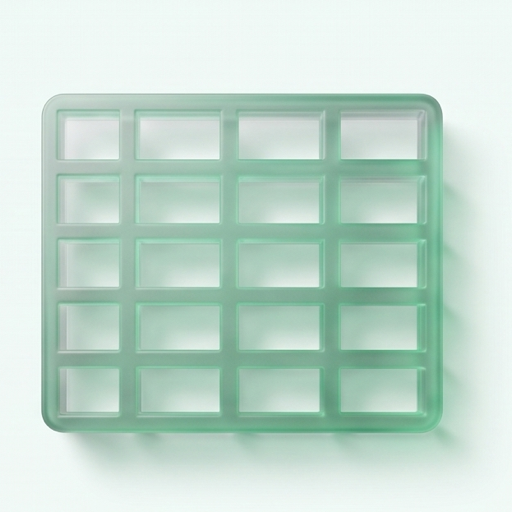
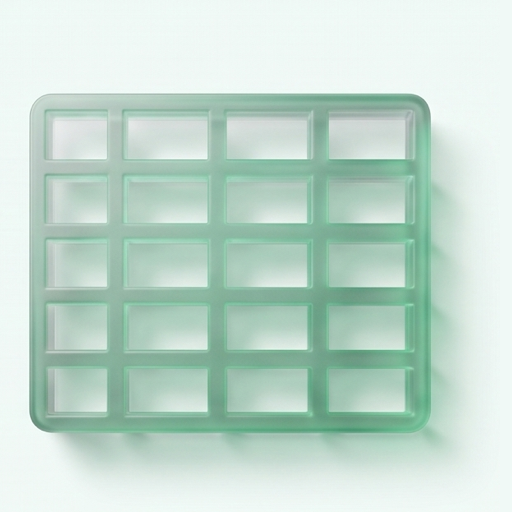
Dlazdice temat: velka ikona vpravo + vycentrovany Excel
Dle Karla:
- dlazdice prekopana na horizontalni layout: text (nazev + pocet) vlevo,
  VELKA ikona (46 % sirky, ~144px na desktopu) vpravo, jasne viditelna
  (drive jen mala ikonka vpravo nahore)
- ToolGlassIcon: velikost/ram ted pres prop className (vychozi = mala cipova)
- excel.png / excel-light.png: obsah gridu vodorovne vycentrovan
  (svetla varianta byla ~12px vpravo, srovnano)

Overeno v obou rezimech: ikony 143px, Excel vycentrovan, mobil bez preteceni.

diff --git a/src/components/BankBrowser.tsx b/src/components/BankBrowser.tsx
@@ -261,23 +261,29 @@ export function BankBrowser({ items, lang }: { items: BankItem[]; lang: Lang }) 
                 <button
                   type="button"
                   onClick={() => setTool(t.name)}
-                  className="glass group flex w-full flex-col items-start gap-3 rounded-2xl p-5 text-left transition hover:-translate-y-0.5 hover:shadow-lg hover:shadow-accent-600/15"
+                  className="glass group flex w-full items-center gap-3 overflow-hidden rounded-2xl p-5 text-left transition hover:-translate-y-0.5 hover:shadow-lg hover:shadow-accent-600/15"
                 >
-                  {/* Ikona vpravo nahoře (dřív vlevo). */}
-                  <span className="flex w-full justify-end">
+                  {/* Text vlevo */}
+                  <span className="flex min-w-0 flex-1 flex-col gap-1">
+                    <span className="font-display text-lg font-semibold tracking-tight text-zinc-900 dark:text-white">
+                      {toolLabel(t.name, lang)}
+                    </span>
+                    <span className="text-sm text-zinc-500 dark:text-zinc-400">
+                      {countMaterials(t.count, lang)}
+                    </span>
+                  </span>
+                  {/* Velká ikona vyplní pravou část dlaždice */}
+                  <span className="aspect-square w-[46%] max-w-[9.5rem] shrink-0">
                     {hasToolGlassIcon(t.name) ? (
-                      <ToolGlassIcon tool={t.name} />
+                      <ToolGlassIcon
+                        tool={t.name}
+                        className="h-full w-full rounded-2xl object-cover ring-1"
+                      />
                     ) : (
-                      <span className="flex h-14 w-14 items-center justify-center rounded-xl bg-accent-500/15 text-accent-600 transition group-hover:bg-accent-600 group-hover:text-white dark:text-accent-300">
-                        <Icon className="h-6 w-6" />
+                      <span className="flex h-full w-full items-center justify-center rounded-2xl bg-accent-500/15 text-accent-600 transition group-hover:bg-accent-600 group-hover:text-white dark:text-accent-300">
+                        <Icon className="h-10 w-10" />
                       </span>
                     )}
-                  </span>
-                  <span className="font-display text-lg font-semibold tracking-tight text-zinc-900 dark:text-white">
-                    {toolLabel(t.name, lang)}
-                  </span>
-                  <span className="text-sm text-zinc-500 dark:text-zinc-400">
-                    {countMaterials(t.count, lang)}
                   </span>
                 </button>
               </li>

diff --git a/src/components/ToolGlassIcon.tsx b/src/components/ToolGlassIcon.tsx
@@ -7,28 +7,34 @@ import { TOOL_ICON, TOOL_ICON_LIGHT } from "@/lib/bankLabels";
  * 3D skleněná ikona tématu s variantou pro světlý/tmavý režim.
  * Přepínání řeší čistě CSS (`dark:`), takže funguje okamžitě při změně
  * motivu bez JS. Když téma ikonu nemá, nevykreslí nic (volající řeší fallback).
+ * `className` řídí velikost/rám (výchozí = malá čipová ikona).
  */
-export function ToolGlassIcon({ tool }: { tool: string }) {
+export function ToolGlassIcon({
+  tool,
+  className = "h-14 w-14 rounded-xl object-cover ring-1",
+}: {
+  tool: string;
+  className?: string;
+}) {
   const dark = TOOL_ICON[tool];
   const light = TOOL_ICON_LIGHT[tool];
   if (!dark) return null;
 
-  const base =
-    "h-14 w-14 rounded-xl object-cover ring-1 transition duration-300 group-hover:scale-105 group-hover:ring-accent-500/40";
+  const base = `${className} transition duration-300 group-hover:scale-105 group-hover:ring-accent-500/40`;
   return (
     <>
       <Image
         src={light ?? dark}
         alt=""
-        width={112}
-        height={112}
+        width={320}
+        height={320}
         className={`${base} ring-black/10 dark:hidden`}
       />
       <Image
         src={dark}
         alt=""
-        width={112}
-        height={112}
+        width={320}
+        height={320}
         className={`${base} hidden ring-white/10 dark:block`}
       />
     </>
